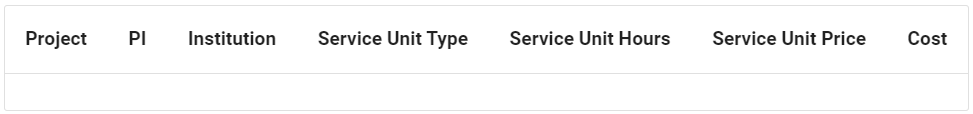
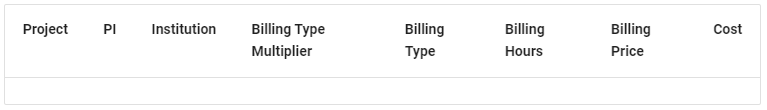
updated pricing content

diff --git a/docs/get-started/pricing-model.md b/docs/get-started/pricing-model.md
@@ -11,11 +11,11 @@ any obligations of long-term contracts or complicated licensing agreements.
 
 ### Service Units (SU)
 
-| Name          | vGPU | vCPU | RAM (GB) | Storage (GB) | Price  |
-| :-----------: | :--: | :--: | :------: | :----------: | :----: |
-| CPU           | 0    | 1    | 4        | 20           | $0.013 |
-| A100 GPU      | 1    | 24   | 96       | 20           | $1.790 |
-| A2 GPU        | 1    | 8    | 64       | 20           | $0.463 |
+| Name          | vGPU | vCPU | RAM (GB) | Price  |
+| :-----------: | :--: | :--: | :------: | :----: |
+| CPU           | 0    | 1    | 4        | $0.013 |
+| A100 GPU      | 1    | 24   | 96       | $1.790 |
+| A2 GPU        | 1    | 8    | 64       | $0.463 |
 
 ### High Level Function
 
@@ -23,15 +23,15 @@ For those who visualize better when they can use a function to think about how
 something works, here is a function of how the calculation works for OpenShift
 and OpenStack.
 
-1. **OpenStack** = (Resource (vCPU/RAM) assigned to flavor) * (time VM has been
-    running), rounded up to whole hour + Extra storage
+1. **OpenStack** = (Resource (vCPU/RAM) assigned to VM flavor converted to SU) *
+(time VM has been running), rounded up to whole hour + Extra storage 
 
     !!! info "NERC's OpenStack Flavor List"
         You can find the most up-to-date information on the current NERC's OpenStack
         flavor by referring to [this page](../openstack/create-and-connect-to-the-VM/flavors.md).
 
-2. **OpenShift** = (Resource (vCPU/RAM) requested by Pod) * (time Pod was running),
-rounded up to whole hour
+2. **OpenShift** = (Resource (vCPU/RAM) requested by Pod converted to SU) * (time
+Pod was running), rounded up to whole hour
 
 ## Breakdown
 
@@ -59,19 +59,20 @@ Storage includes all types of storage Object, Block, Ephemeral & Image.
 
 ## Format
 
-### Combined data CSV
+### Combined Data CSV
 
 This is the format of the csv that we will gather from ColdFront, Keycloak, OpenShift,
 and OpenStack so that we can calculate the [**Monthly Billing Data**](#monthly-billing-data).
 
 ![Combined data CSV](images/pricing-combined-data-csv-format.png)
 
-### Monthly Billing Data
+### Monthly Billing Data CSV
 
 This is the format of the data we wish to send to the billing software so that it
-provides all the information they need to bill an institution and allow that
-institution to properly bill their PIs, and for their PIs to properly track what
-projects are costing them what.
+provides all the information they need to bill an institution and allow that institution to properly bill their PIs, and for their PIs to properly track what projects are
+costing them what. Billing Type is broken into 4 types (CPU SU, A100 GPU SU, A2
+GPU SU, and Storage). Billing Type Multiplier represents SUs for the SUs and Storage
+size for Storage.
 
 ![Monthly Billing Data](images/pricing-monthly-billing-data.png)
 
